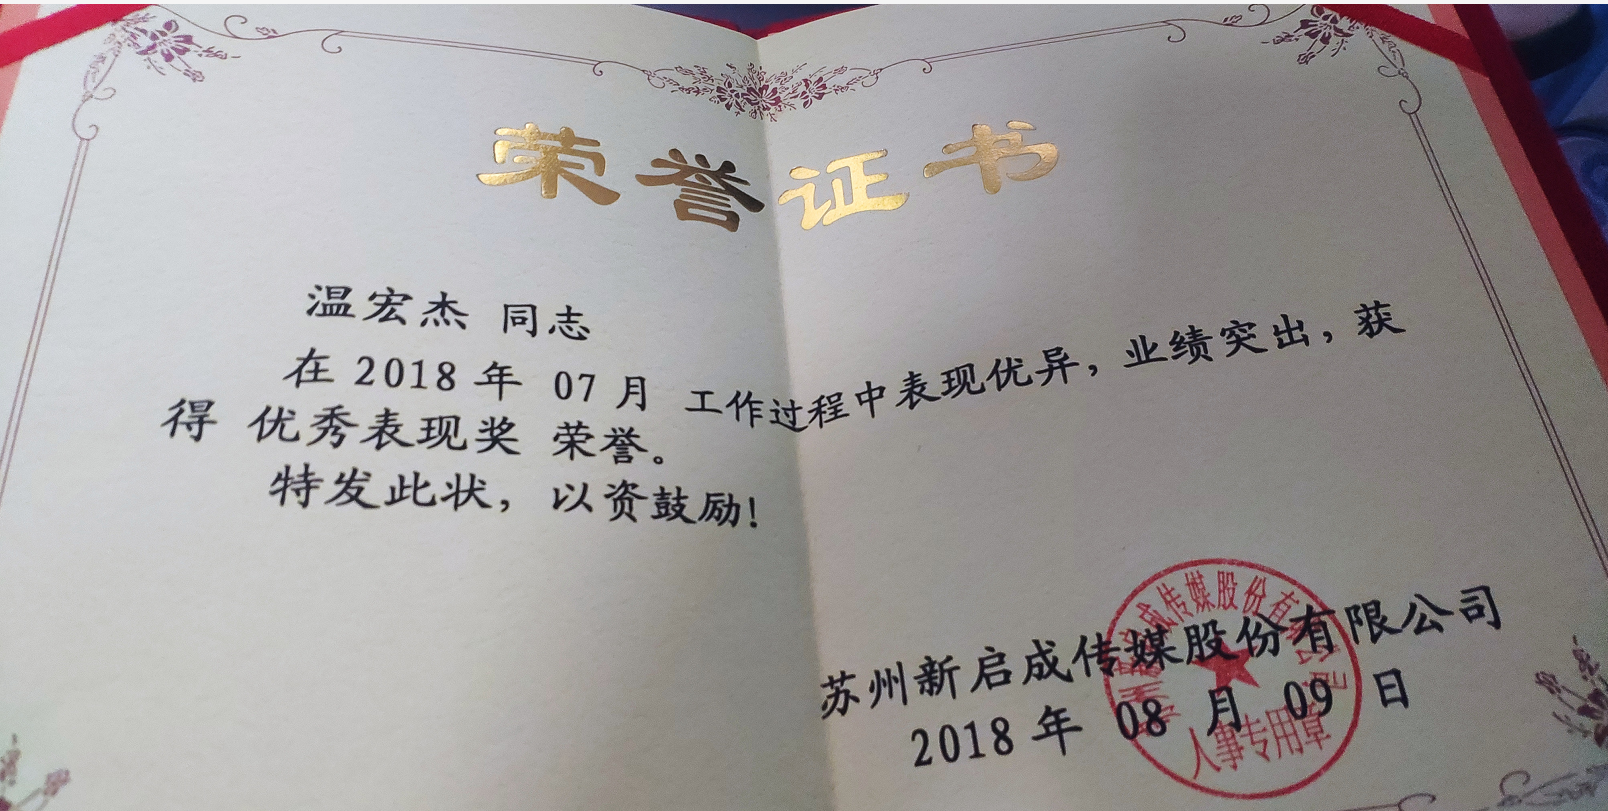
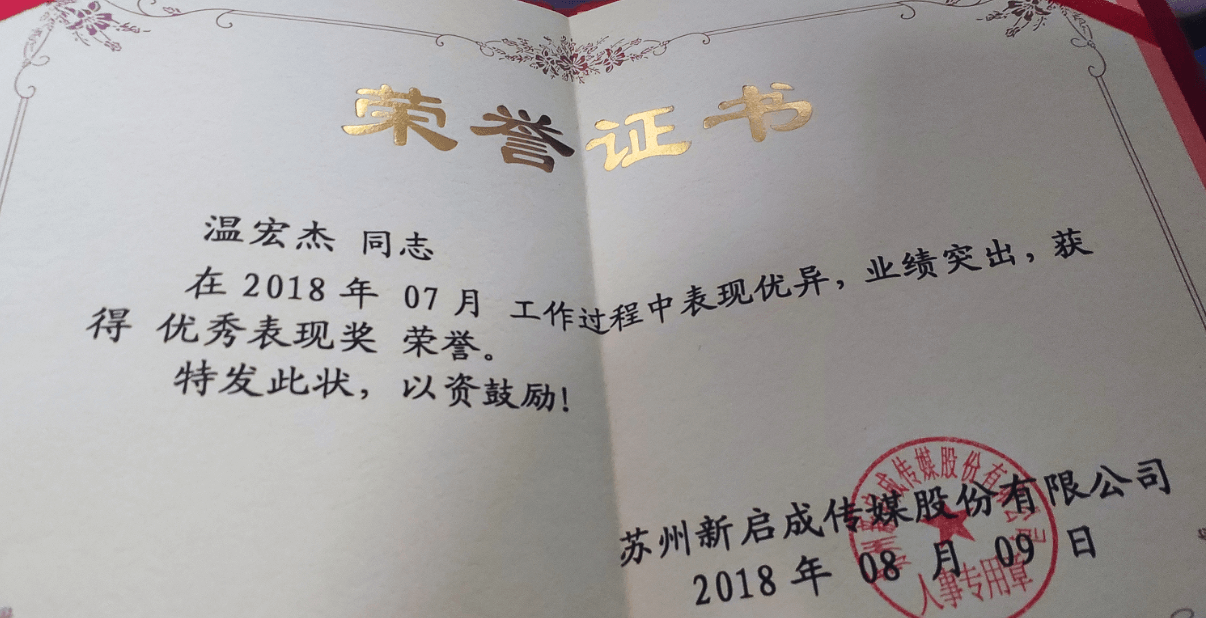
update

diff --git a/src/views/achievement.svelte b/src/views/achievement.svelte
@@ -11,8 +11,8 @@
 
 <style>
 .img {
-  width: 50%;
-  min-width: 175px;
+  width: 45%;
+  min-width: 135px;
   height: auto;
 }
 </style>
